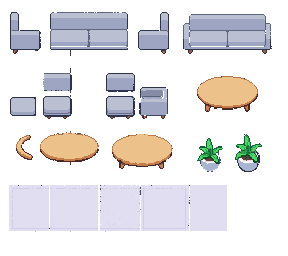
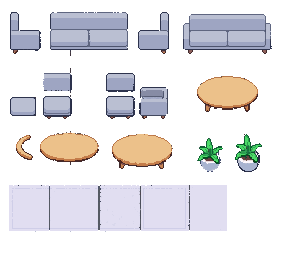
fix(decor): Gemini furniture no longer see-through in places
The converter keyed out grey/dark parts of pieces (monitors, PC towers,
chair seats) that matched the image background or its shadow hue. Pixels
enclosed by a piece, or with art of the same piece below and above / on
both sides, now stay opaque. The six Gemini sheets were patched in place,
so cell positions and maps are unchanged.

diff --git a/tools/pixelate_image.py b/tools/pixelate_image.py
@@ -14,7 +14,10 @@ real pixels so the game (32px cells, LPC-sized characters) can use them:
    darken whatever floor the piece stands on;
 5. near-identical colors (JPEG wobble, within `--merge`) merge into the most common of them, while
    rare distinct colors (leaf greens, highlights) survive;
-6. specks smaller than `--min-blob` pixels are dropped (stray legs, crumbs).
+6. background- or shadow-colored pixels enclosed by a piece (grey seats, screens), and shadow-colored
+   ones with art above and below them, stay opaque art; only what connects to the open background is
+   see-through (`--keep-holes` turns this off);
+7. specks smaller than `--min-blob` pixels are dropped (stray legs, crumbs).
 
 Pick `--scale` so one of the image's grid cells (or one chair) becomes 32px. Then
 `python tools/repack_decor.py <name>` gives every piece whole cells (`<name>_grid.png`, which the
@@ -88,6 +91,38 @@ def shifted(mask: np.ndarray, dy: int, dx: int) -> np.ndarray:
     return out
 
 
+def enclosed(art: np.ndarray) -> np.ndarray:
+    """Non-art pixels that the art encloses, bridging 1-2px gaps in its outlines."""
+    closed = ndimage.binary_closing(np.pad(art, 2), np.ones((3, 3)))[2:-2, 2:-2]
+    lab, _ = ndimage.label(~closed)
+    border = np.unique(np.concatenate([lab[0], lab[-1], lab[:, 0], lab[:, -1]]))
+    outside = ndimage.binary_dilation(np.isin(lab, border[border > 0]), np.ones((3, 3)))
+    return ~art & ~outside
+
+
+def _before_after(piece: np.ndarray, reach: int) -> tuple[np.ndarray, np.ndarray]:
+    """Per pixel: any piece pixel within `reach` before it / after it along axis 0."""
+    c = np.vstack([np.zeros((1, piece.shape[1]), np.int32), np.cumsum(piece, 0, dtype=np.int32)])
+    y = np.arange(piece.shape[0])
+    before = c[y] - c[np.maximum(y - reach, 0)] > 0
+    after = c[np.minimum(y + 1 + reach, piece.shape[0])] - c[y + 1] > 0
+    return before, after
+
+
+def sandwiched(art: np.ndarray, reach: int = 16) -> np.ndarray:
+    """Pixels inside a piece's outline by column: art of one piece (8-connected, so a piece in the
+    next row of the sheet doesn't count) below them within `reach` px, and above them or on both
+    sides of them (a seat between armrests). Cast shadows have nothing of their piece below."""
+    out = np.zeros_like(art)
+    lab, _ = ndimage.label(art, structure=np.ones((3, 3)))
+    for i, sl in enumerate(ndimage.find_objects(lab), 1):
+        piece = lab[sl] == i
+        above, below = _before_after(piece, reach)
+        left, right = (m.T for m in _before_after(piece.T, reach))
+        out[sl] |= below & (above | (left & right)) & ~piece
+    return out
+
+
 def main() -> None:
     ap = argparse.ArgumentParser()
     ap.add_argument("input")
@@ -101,6 +136,7 @@ def main() -> None:
     ap.add_argument("--min-shadow", type=int, default=40, help="min size (px) of a dark background-hue blob to make a shadow")
     ap.add_argument("--merge", type=int, default=18, help="merge colors closer than this (|dr|+|dg|+|db|)")
     ap.add_argument("--min-blob", type=int, default=60)
+    ap.add_argument("--keep-holes", action="store_true", help="leave background-colored pixels enclosed by art transparent")
     ap.add_argument("--preview")
     ap.add_argument("--debug", action="store_true")
     args = ap.parse_args()
@@ -223,8 +259,22 @@ def main() -> None:
         blob = lab == i
         shade[blob] = int(np.median(raw[blob]))
 
-    # Flat colors on the opaque art.
+    # Holes: background- or shadow-colored pixels enclosed by a piece (a grey seat or monitor on a
+    # grey background, a screen the background's hue) are the art's own colors, not see-through. Only
+    # what connects to the open background (4-connected, so 1px diagonal outlines still enclose) stays
+    # transparent / shadow. Outlines often have 1-2px gaps, so enclosure is judged on the art closed
+    # by one pixel; the open background then grows back by one pixel, so notches stay see-through.
     art = ~clear & ~shadow
+    if not args.keep_holes:
+        # ...and shadow-colored pixels with art above and below them are the piece's own (an
+        # unoutlined grey cushion, a JPEG fringe): cast shadows lie under a piece, not inside it.
+        holes = enclosed(art) | (shadow & sandwiched(art))
+        art |= holes
+        clear &= ~holes
+        shadow &= ~holes
+        print(f"{int(holes.sum())} enclosed hole px filled")
+
+    # Flat colors on the opaque art.
     colors, counts = np.unique(small[art].reshape(-1, 3), axis=0, return_counts=True)
     centers: list[np.ndarray] = []
     lookup: dict[tuple, np.ndarray] = {}

diff --git a/docs/HANDOFF.md b/docs/HANDOFF.md
@@ -1,7 +1,16 @@
 # ByteGrounds — HANDOFF
 
-**Last updated:** 2026-10-31 (Portuguese version + fewer presets)
+**Last updated:** 2026-10-31 (see-through Gemini furniture fixed)
 **Branch:** `master` (user asked: work on master directly, no more PRs)
+
+## See-through Gemini furniture — DONE, PUSHED (2026-10-31)
+- Grey/dark parts of pieces (monitors, PC towers, chair seats/backs) matched the image background
+  (or its darker "shadow" hue) and were keyed transparent/translucent. `tools/pixelate_image.py` now
+  keeps as opaque art: pixels enclosed by a piece (outline gaps of 1-2px bridged) and shadow-colored
+  pixels with art of the same piece below and above / on both sides (`--keep-holes` = old behavior).
+- The six Gemini furniture sheets were patched in place (raw + `_grid`): only the filled pixels were
+  copied into each grid piece (located by exact match in the old raw sheet), so cell positions, the
+  manual 14px shifts, seat rules and maps are unchanged. Floor shadows are still translucent.
 
 ## Portuguese version + fewer presets — DONE, PUSHED (2026-10-31)
 - Spec: `docs/specs/i18n-pt.md`. `client/src/i18n.ts`: `t(key, vars)`, en + pt tables (pt typed as
